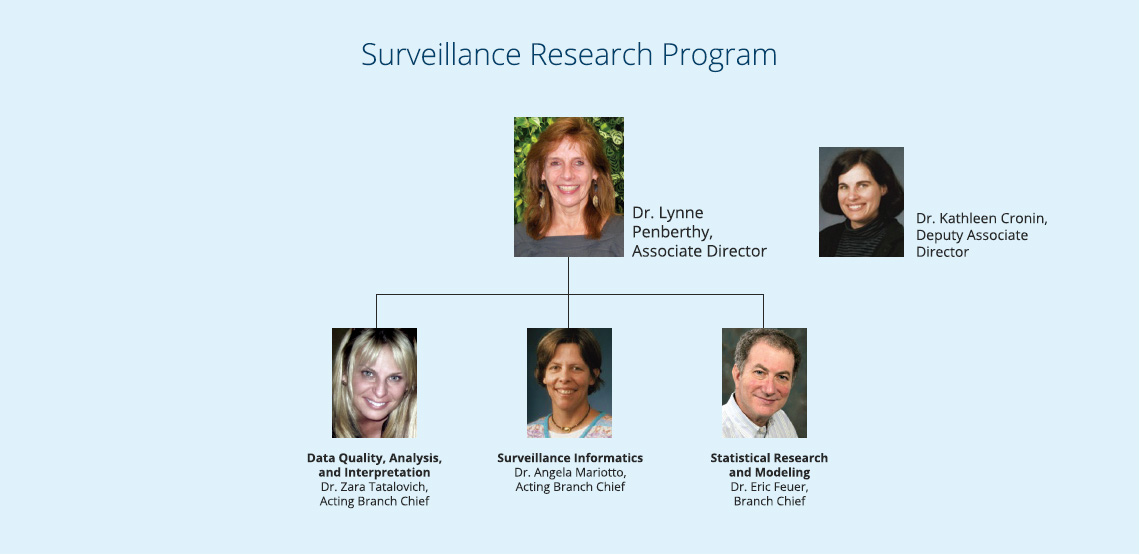
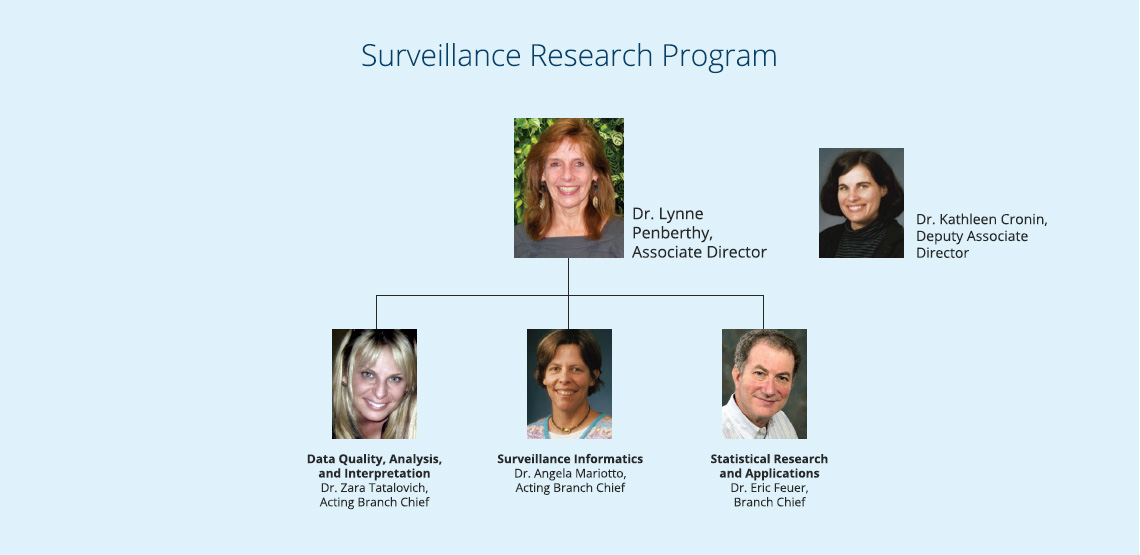
Merged revision(s) 305-306 from branches/ICF
Former-commit-id: 74b836cc36b368c37cbb5bf976c155726d99c521

diff --git a/od/meet_staff.html b/od/meet_staff.html
@@ -205,9 +205,9 @@
                         </div>
                         <div class="span6">
                         <ul>
-                          <li><a href="http://staffprofiles.cancer.gov/brp/prgmStaffList.do?listCodeId=52809&listType=stf">Process of Care Research Branch</a> </li>
                           <li><a href="http://staffprofiles.cancer.gov/brp/prgmStaffList.do?listCodeId=52811&listType=stf">Health Behaviors Research Branch</a> </li>
                           <li><a href="http://staffprofiles.cancer.gov/brp/prgmStaffList.do?listCodeId=52812&listType=stf">Basic Biobehavioral and Psychological Sciences Branch</a> </li>
+                          <li><a href="http://staffprofiles.cancer.gov/brp/prgmStaffList.do?listCodeId=1532933&listType=stf">Science of Research and Technology Branch</a></li>
                         </ul>
                         </div>
                       </div>
@@ -228,7 +228,7 @@
                         <ul>
                           <li><a href="http://epi.grants.cancer.gov/hsfb/">Genomic Epidemiology</a></li>
                           <li><a href="http://epi.grants.cancer.gov/mtb/">Methods and Technologies Branch</a></li>
-                          <li>Risk Factor Assessment</li>
+                          <li><a href="http://epi.grants.cancer.gov/rfab/">Risk Factor Assessment</a></li>
                         </ul>
                         </div>
                       </div>
@@ -258,16 +258,14 @@
                       <div class="row-fluid bottom-border">
                       <div class="span6">
                         <ul>
-                          <li><a href="http://surveillance.cancer.gov/about/staff.html#ssb"> Surveillance Systems Branch</a></li>
-                          <li><a href="http://surveillance.cancer.gov/about/staff.html#smab"> Statistical Methodology &amp; Applications Branch</a></li>
-                          <li><a href="http://surveillance.cancer.gov/about/staff.html#daib"> Data Analysis &amp; Interpretation Branch</a></li>
+                          <li><a href="http://surveillance.cancer.gov/about/staff.html">Surveillance Informatics Branch</a></li>
+                          <li><a href="http://surveillance.cancer.gov/about/staff.html#smab">Statistical  Research and Applications Branch</a></li>
                         </ul>
                         </div>
                         <div class="span6">
                         <ul>
-                          <li><a href="http://surveillance.cancer.gov/about/staff.html#dmb"> Data Modeling Branch</a></li>
-                          <li><a href="http://surveillance.cancer.gov/about/staff.html#deas">Administrative Support</a></li>
-                          <li><a href="http://surveillance.cancer.gov/about/staff.html#arc"> Administrative Resource Center</a></li>
+                          <li><a href="http://surveillance.cancer.gov/about/staff.html">Data Quality, Analysis, and Interpretation  Branch</a></li>
+                          <li><a href="http://surveillance.cancer.gov/about/staff.html#oad">Office of the Associate Director</a></li>
                         </ul>
                         </div>
                       </div>
@@ -345,7 +343,7 @@
           </div>
            </div>
        <div class="last-updated">
-       <p class="center"><strong>Last Updated: <!-- InstanceBeginEditable name="Last Updated" -->March 2, 2015<!-- InstanceEndEditable --></strong></p>
+       <p class="center"><strong>Last Updated: <!-- InstanceBeginEditable name="Last Updated" -->April 30, 2015<!-- InstanceEndEditable --></strong></p>
        <a href="http://www.cancer.gov/global/contact" class="help-image"><img class="footer-help" src="/images/footer-help-logo.png" alt="help-logo" /></a><p class="can-numb"><strong>1-800-4-CANCER <br /> (1-800-422-6237)</strong></p>
        </div>
        </div><!--/row-->

diff --git a/od/org.html b/od/org.html
@@ -207,7 +207,7 @@
                   </div>
                   <div class="row-fluid">
                     <div class="subsection margin-bottom span11">
-                      <div class="program-areas-header bottom-border"><a href="http://healthcaredelivery.cancer.gov/">Healthcare Delivery Research</a></div>
+                      <div class="program-areas-header bottom-border"><a href="http://healthcaredelivery.cancer.gov/">Healthcare Delivery Research (HDRP)</a></div>
                       <div class="row-fluid bottom-border">
                         <ul>
                           <li>Health care delivery research at NCI is conceptualized as the study of cancer  care, factors influencing care, and outcomes of care.  Cancer care refers to  medical services offered across the cancer continuum, such as screening  individuals not known to have cancer; treating cancer patients; following cancer  survivors for recurrence; and providing psychosocial support at the end of life  for patients and their caregivers.</li>
@@ -217,7 +217,7 @@
                   </div>
                   <div class="row-fluid">
                     <div class="subsection margin-bottom span11">
-                      <div class="program-areas-header bottom-border"><a href="http://cancercontrol.cancer.gov/IS/index.html">Implementation Science</a></div>
+                      <div class="program-areas-header bottom-border"><a href="http://cancercontrol.cancer.gov/IS/index.html">Implementation Science (IS)</a></div>
                        <div class="row-fluid bottom-border">
                         <ul>
                           <li>The mission of the Implementation Science (IS) Team is to build and advance the field of Implementation Science by:</li>
@@ -239,7 +239,7 @@
 Surveillance Research Program (SRP)</a></div>
                       <div class="row-fluid bottom-border">
                         <ul>
-                          <li>The Surveillance Research Program (SRP) plans, directs, coordinates, and evaluates a program of cancer surveillance and health services research involving the collection and analysis of data and the assessment of the impact of health care delivery and other health system factors. The program strives to answer key questions about cancer incidence, mortality, and cancer-related health behaviors in diverse regions and populations of the U.S. The Surveillance, Epidemiology, and End Results (SEER) Program, a major component of the SRP, collects cancer data on a routine basis from designated population-based cancer registries in various areas of the country. The SRP includes the Surveillance Informatics Research Branch, the Data Quality, Analysis, and Interpretation Branch, and the Statistical Research and Modeling Branch.</li>
+                          <li>The Surveillance Research Program (SRP) plans, directs, coordinates, and evaluates a program of cancer surveillance and health services research involving the collection and analysis of data and the assessment of the impact of health care delivery and other health system factors. The program strives to answer key questions about cancer incidence, mortality, and cancer-related health behaviors in diverse regions and populations of the U.S. The Surveillance, Epidemiology, and End Results (SEER) Program, a major component of the SRP, collects cancer data on a routine basis from designated population-based cancer registries in various areas of the country. The SRP includes the Surveillance Informatics Research Branch, the Data Quality, Analysis, and Interpretation Branch, and the Statistical Research and Applications Branch.</li>
                         </ul>
                       </div>
                     </div>

diff --git a/brp/bbpsb/index.html b/brp/bbpsb/index.html
@@ -191,8 +191,10 @@
   <div class="d-head">News and Highlights</div>
   <div class="d-case2">
 	<ul class="itemsList">
+	  <li><p><a href="http://ncioa.cancer.gov/oa-internet/sbo/rqmt/alllist?execution=e1s1">The impact of beta blockade on gene expression in early stage breast cancer (Beta Blocker RFP No. S15-069)</a></p></li>
 	  <li>
-	    <p>Novel small scale pilot  projects to advance the mission of the <a href="ncintwk-biopthwys.html">National Cancer Institute Network  on Biobehavioral Pathways in Cancer</a>, <em>April 2014</em></p></li>
+	    <p>Novel small scale pilot  projects to advance the mission of the <a href="ncintwk-biopthwys.html">National Cancer Institute Network  on Biobehavioral Pathways in Cancer</a>, <em>April 2014</em></p>
+	    </li>
 	  <li>Funding Announcement: Affective Processes <a href="http://grants.nih.gov/grants/guide/pa-files/PAR-14-067.html">PAR-14-067</a> (U01)</li>
       <li><a href="http://staffprofiles.cancer.gov/brp/granteeProfile.do?contactId=1888434&amp;grpId=52812">BBPSB  grantee, Kiecolt-Glaser, shows yoga lowers fatigue, inflammation in breast  cancer survivors</a><br />
         <a href="http://feedproxy.google.com/~r/osumc/~3/3UV_bAX9tCg/">Click here to  read the full press release</a> <a href="../../exit_disclaimer.html"><img src="../../images/Icon_External_Link.png" alt="Exit Disclaimer" /></a></li>
@@ -213,7 +215,7 @@
     <!-- Main Content -->
     
     <!-- Last Updated -->
-    <div class="update">Last Updated: April 22, 2014</div>
+    <div class="update">Last Updated: May 4, 2015</div>
     <!-- End of Last Updated -->
     
     <!-- Footer -->

diff --git a/brp/index.html b/brp/index.html
@@ -186,7 +186,8 @@
 	<div class="d-head">News and Highlights</div>
 	  <div class="d-case2">
 		<ul class="itemsList">
-		  <li><p><a href="http://www.drugabuse.gov/news-events/news-releases/2014/10/using-social-media-to-better-understand-prevent-treat-substance-use">NIH announces 11 awards funded across three  Institutes, October, 2014</a></p></li>
+		  <li><p><a href="http://ncioa.cancer.gov/oa-internet/sbo/rqmt/alllist?execution=e1s1">The impact of beta blockade on gene expression in early stage breast cancer (Beta Blocker RFP No. S15-069)</a></p></li>
+          <li><p><a href="http://www.drugabuse.gov/news-events/news-releases/2014/10/using-social-media-to-better-understand-prevent-treat-substance-use">NIH announces 11 awards funded across three  Institutes, October, 2014</a></p></li>
 		  <li>
 		    <p><a href="http://www.ncbi.nlm.nih.gov/pubmed/24512871">Behavioral   research in cancer prevention and control: a look to the future</a>, AJPM (March 2014)</p>
 	      </li>
@@ -208,7 +209,7 @@
     <!-- Main Content -->
     
     <!-- Last Updated -->
-    <div class="update">Last Updated: October 17, 2014</div>
+    <div class="update">Last Updated: May 4, 2015</div>
     <!-- End of Last Updated -->
     
     <!-- Footer -->

diff --git a/brp/bbpsb/ncintwk-biopthwys.html b/brp/bbpsb/ncintwk-biopthwys.html
@@ -104,6 +104,7 @@
     </div>
     <div style="border: thin #ccc solid; padding:5px; float:left; width:535px; margin-left:5px;">
     <p>Through an ongoing Request for Proposals (RFP) issued by Leidos Biomedical Research, Inc., the Network solicits proposals for small-scale pilot projects to advance the knowledge of molecular pathways that link psychological, behavioral, or social factors to cancer biology. These projects inform further research opportunities to develop effective interventions and improve clinical outcomes.</p>
+    <p><a href="http://ncioa.cancer.gov/oa-internet/sbo/rqmt/alllist?execution=e1s1">The impact of beta blockade on gene expression in early stage breast cancer (Beta Blocker RFP No. S15-069)</a></p>
     </div>
     <br style="clear:both;"/><br style="clear:both;"/><br style="clear:both;"/>
     
